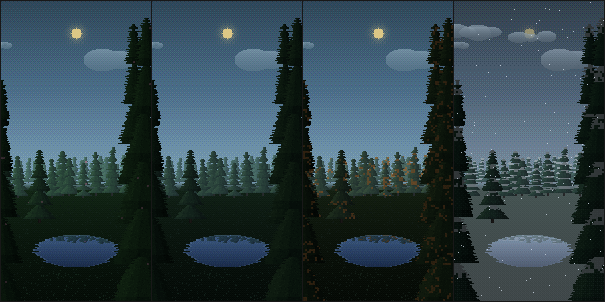
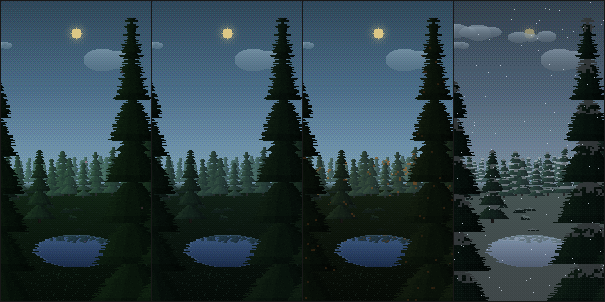
Fix the composition at true device resolution
Reviewing renders at the virtual size a real phone produces (120x267 on a
1080x2400 screen) showed three problems invisible at the larger sizes used
earlier:

- The framing trees drew as thin columns rather than a frame. Widened.
- Season colour speckled across the near-black framing trees. A backlit
  foreground silhouette should show shape, not colour, so the accent
  chance now scales with depth: the mid-ground carries the autumn, the
  framing layer stays dark.
- The clearing floor was an empty band between treeline and water. A scrub
  pass fills it, hugging the treeline and thinning toward the viewer.

Scrub colour blends the mid and near layer palettes rather than resolving
a fresh depth, so the Kotlin mixes two precomputed lookup entries and
lands on exactly the same colour as the preview.

Claude-Session: https://claude.ai/code/session_01DKyk7dHzbPVTzQjGukZqXR

diff --git a/tools/preview/index.html b/tools/preview/index.html
@@ -514,7 +514,9 @@
     const halfW = w / 2;
     const snowAmt = ctx.season.snow;
     const accent = ctx.seasonAccent;
-    const accentChance = ctx.season.accentChance || 0;
+    // Detail falls away toward the viewer: the framing trees read as silhouette, so they
+    // carry far less season colour than the mid-ground does.
+    const accentChance = (ctx.season.accentChance || 0) * (0.30 + 0.70 * depth);
     const depthMul = [0.32 + 0.68 * depth, 0.32 + 0.68 * depth, 0.32 + 0.68 * depth];
 
     const tiers = 3 + Math.floor(rand() * 5);
@@ -638,6 +640,48 @@
   }
 
   /**
+   * Low scrub along the base of the treeline and scattered through the clearing. Without it the
+   * ground reads as an empty band between the trees and the water.
+   */
+  function drawScrub(f, spec, ctx) {
+    const layers = spec.layout.layers;
+    const baseline = ctx.horizonY;
+    const rand = R.rng(spec.seed ^ 0x5C2B);
+    const count = Math.round(f.w / 5);
+    const snowAmt = ctx.season.snow;
+
+    for (let i = 0; i < count; i++) {
+      const x0 = Math.round(rand() * f.w);
+      const spread = rand();
+      // Most clumps hug the treeline; a few stray out into the clearing.
+      const y0 = Math.round(baseline + Math.pow(spread, 2.2) * (f.h - baseline) * 0.42);
+      const rx = 2 + rand() * 5;
+      const ry = 1.5 + rand() * 3;
+      // Blended between the mid and near layer palettes, so the Kotlin port can mix the two
+      // precomputed lookup entries and get an identical colour.
+
+      for (let dy = -Math.round(ry); dy <= 0; dy++) {
+        const t = 1 - Math.abs(dy) / ry;
+        const hw = rx * Math.sqrt(Math.max(0, t));
+        for (let dx = -Math.round(hw); dx <= Math.round(hw); dx++) {
+          const x = x0 + dx, y = y0 + dy;
+          const n = hash2(x, y, spec.seed + 611);
+          if (n > 0.86) continue;                     // ragged edge rather than a smooth blob
+          let shade = dy < -ry * 0.55 ? 4 : 2;
+          if (n < 0.14) shade += 1;
+          let c = mix(
+            S.canopyColour(ctx, shade, layers[1].depth),
+            S.canopyColour(ctx, shade, layers[2].depth),
+            spread,
+          );
+          if (snowAmt > 0 && dy < -ry * 0.5) c = mix(c, mul(ctx.accent.snow, ctx.tint), snowAmt * 0.7);
+          f.px(x, y, c);
+        }
+      }
+    }
+  }
+
+  /**
    * A still pool in the clearing floor. It mirrors what stands *above the far shore* - the
    * treeline and the sky beyond it - compressed hard, because the water is seen at a glancing
    * angle. That is what makes the sky's colour shift read twice on screen.
@@ -676,7 +720,7 @@
     }
   }
 
-  return { drawPine: drawPine, drawLayer: drawLayer, drawGround: drawGround, drawPool: drawPool, hash2: hash2, patchNoise: patchNoise };
+  return { drawPine: drawPine, drawLayer: drawLayer, drawGround: drawGround, drawScrub: drawScrub, drawPool: drawPool, hash2: hash2, patchNoise: patchNoise };
 });
 
 /* ---- weather.js ---- */
@@ -994,6 +1038,7 @@
 
     F.drawLayer(f, spec, ctx, layers[0], offsetFor(layers[0], 0));
     F.drawGround(f, spec, ctx);
+    F.drawScrub(f, spec, ctx);
     F.drawPool(f, spec, ctx);
 
     for (let i = 1; i < layers.length; i++) {
@@ -1119,7 +1164,7 @@
       { "name": "far",   "depth": 0.80, "baseY": 0.606, "height": [0.055, 0.095], "widthRatio": [0.44, 0.62], "spacing": 6,  "sway": 0.20, "parallax": 0.12 },
       { "name": "mid",   "depth": 0.46, "baseY": 0.652, "height": [0.115, 0.180], "widthRatio": [0.40, 0.56], "spacing": 13, "sway": 0.55, "parallax": 0.38 },
       { "name": "near",  "depth": 0.18, "baseY": 0.735, "height": [0.230, 0.330], "widthRatio": [0.34, 0.48], "spacing": 25, "sway": 0.95, "parallax": 0.68, "edgesOnly": 0.30 },
-      { "name": "frame", "depth": 0.00, "baseY": 1.070, "height": [0.780, 1.070], "widthRatio": [0.14, 0.22], "spacing": 29, "sway": 1.50, "parallax": 1.00, "edgesOnly": 0.15 }
+      { "name": "frame", "depth": 0.00, "baseY": 1.070, "height": [0.780, 1.070], "widthRatio": [0.21, 0.31], "spacing": 27, "sway": 1.50, "parallax": 1.00, "edgesOnly": 0.15 }
     ]
   },
 

diff --git a/tools/forest.js b/tools/forest.js
@@ -31,7 +31,9 @@
     const halfW = w / 2;
     const snowAmt = ctx.season.snow;
     const accent = ctx.seasonAccent;
-    const accentChance = ctx.season.accentChance || 0;
+    // Detail falls away toward the viewer: the framing trees read as silhouette, so they
+    // carry far less season colour than the mid-ground does.
+    const accentChance = (ctx.season.accentChance || 0) * (0.30 + 0.70 * depth);
     const depthMul = [0.32 + 0.68 * depth, 0.32 + 0.68 * depth, 0.32 + 0.68 * depth];
 
     const tiers = 3 + Math.floor(rand() * 5);
@@ -155,6 +157,48 @@
   }
 
   /**
+   * Low scrub along the base of the treeline and scattered through the clearing. Without it the
+   * ground reads as an empty band between the trees and the water.
+   */
+  function drawScrub(f, spec, ctx) {
+    const layers = spec.layout.layers;
+    const baseline = ctx.horizonY;
+    const rand = R.rng(spec.seed ^ 0x5C2B);
+    const count = Math.round(f.w / 5);
+    const snowAmt = ctx.season.snow;
+
+    for (let i = 0; i < count; i++) {
+      const x0 = Math.round(rand() * f.w);
+      const spread = rand();
+      // Most clumps hug the treeline; a few stray out into the clearing.
+      const y0 = Math.round(baseline + Math.pow(spread, 2.2) * (f.h - baseline) * 0.42);
+      const rx = 2 + rand() * 5;
+      const ry = 1.5 + rand() * 3;
+      // Blended between the mid and near layer palettes, so the Kotlin port can mix the two
+      // precomputed lookup entries and get an identical colour.
+
+      for (let dy = -Math.round(ry); dy <= 0; dy++) {
+        const t = 1 - Math.abs(dy) / ry;
+        const hw = rx * Math.sqrt(Math.max(0, t));
+        for (let dx = -Math.round(hw); dx <= Math.round(hw); dx++) {
+          const x = x0 + dx, y = y0 + dy;
+          const n = hash2(x, y, spec.seed + 611);
+          if (n > 0.86) continue;                     // ragged edge rather than a smooth blob
+          let shade = dy < -ry * 0.55 ? 4 : 2;
+          if (n < 0.14) shade += 1;
+          let c = mix(
+            S.canopyColour(ctx, shade, layers[1].depth),
+            S.canopyColour(ctx, shade, layers[2].depth),
+            spread,
+          );
+          if (snowAmt > 0 && dy < -ry * 0.5) c = mix(c, mul(ctx.accent.snow, ctx.tint), snowAmt * 0.7);
+          f.px(x, y, c);
+        }
+      }
+    }
+  }
+
+  /**
    * A still pool in the clearing floor. It mirrors what stands *above the far shore* - the
    * treeline and the sky beyond it - compressed hard, because the water is seen at a glancing
    * angle. That is what makes the sky's colour shift read twice on screen.
@@ -193,5 +237,5 @@
     }
   }
 
-  return { drawPine: drawPine, drawLayer: drawLayer, drawGround: drawGround, drawPool: drawPool, hash2: hash2, patchNoise: patchNoise };
+  return { drawPine: drawPine, drawLayer: drawLayer, drawGround: drawGround, drawScrub: drawScrub, drawPool: drawPool, hash2: hash2, patchNoise: patchNoise };
 });

diff --git a/app/src/main/java/com/sylcolabs/weatherpaper/scene/Forest.kt b/app/src/main/java/com/sylcolabs/weatherpaper/scene/Forest.kt
@@ -25,7 +25,10 @@ internal object Forest {
         val canopyPal = ctx.canopy[layerIndex]
         val trunkPal = ctx.trunk[layerIndex]
         val accent = ctx.accent[layerIndex]
-        val accentChance = ctx.season.accentChance
+        // Detail falls away toward the viewer: the framing trees read as silhouette, so they
+        // carry far less season colour than the mid-ground does.
+        val depth = Art.LAYERS[layerIndex].depth
+        val accentChance = ctx.season.accentChance * (0.30f + 0.70f * depth)
         val snowAmt = ctx.season.snow
         val snowCol = ctx.snowTint[layerIndex]
 
@@ -161,6 +164,47 @@ internal object Forest {
                 // Soften the seam where the clearing floor meets the treeline.
                 if (seam < 1f) c = Colour.mix(buf.get(x, y), c, seam)
                 buf.set(x, y, c)
+            }
+        }
+    }
+
+    /**
+     * Low scrub along the base of the treeline and scattered through the clearing. Without it
+     * the ground reads as an empty band between the trees and the water.
+     */
+    fun drawScrub(buf: PixelBuffer, ctx: SceneContext) {
+        val rand = Rng(Art.SEED xor 0x5C2B)
+        val count = (buf.w / 5).coerceAtLeast(1)
+        val snowAmt = ctx.season.snow
+        val baseline = ctx.horizonY
+        val midPal = ctx.canopy[1]
+        val nearPal = ctx.canopy[2]
+
+        for (i in 0 until count) {
+            val x0 = (rand.next() * buf.w).roundToInt()
+            val spread = rand.next()
+            // Most clumps hug the treeline; a few stray out into the clearing.
+            val y0 = (baseline + spread.toDouble().pow(2.2).toFloat() * (buf.h - baseline) * 0.42f).roundToInt()
+            val rx = 2f + rand.next() * 5f
+            val ry = 1.5f + rand.next() * 3f
+
+            for (dy in -ry.roundToInt()..0) {
+                val t = 1f - abs(dy) / ry
+                val hw = rx * sqrt(t.coerceAtLeast(0f))
+                for (dx in -hw.roundToInt()..hw.roundToInt()) {
+                    val x = x0 + dx
+                    val y = y0 + dy
+                    val n = Noise.hash(x, y, Art.SEED + 611)
+                    if (n > 0.86f) continue          // ragged edge rather than a smooth blob
+                    var shade = if (dy < -ry * 0.55f) 4 else 2
+                    if (n < 0.14f) shade++
+                    shade = shade.coerceIn(0, midPal.size - 1)
+                    var c = Colour.mix(midPal[shade], nearPal[shade], spread)
+                    if (snowAmt > 0f && dy < -ry * 0.5f) {
+                        c = Colour.mix(c, ctx.snowColour, snowAmt * 0.7f)
+                    }
+                    buf.set(x, y, c)
+                }
             }
         }
     }

diff --git a/app/src/main/java/com/sylcolabs/weatherpaper/scene/Art.kt b/app/src/main/java/com/sylcolabs/weatherpaper/scene/Art.kt
@@ -61,7 +61,7 @@ internal object Art {
         Layer(0.8f, 0.606f, 0.055f, 0.095f, 0.44f, 0.62f, 6, 0.2f, 0.12f, 0.0f, 6),
         Layer(0.46f, 0.652f, 0.115f, 0.18f, 0.4f, 0.56f, 13, 0.55f, 0.38f, 0.0f, 6),
         Layer(0.18f, 0.735f, 0.23f, 0.33f, 0.34f, 0.48f, 25, 0.95f, 0.68f, 0.3f, 7),
-        Layer(0.0f, 1.07f, 0.78f, 1.07f, 0.14f, 0.22f, 29, 1.5f, 1.0f, 0.15f, 8),
+        Layer(0.0f, 1.07f, 0.78f, 1.07f, 0.21f, 0.31f, 27, 1.5f, 1.0f, 0.15f, 8),
     )
 
     class Precip(val count: Int, val speed: Float, val length: Int, val alpha: Float)

diff --git a/app/src/main/java/com/sylcolabs/weatherpaper/scene/SceneRenderer.kt b/app/src/main/java/com/sylcolabs/weatherpaper/scene/SceneRenderer.kt
@@ -66,6 +66,7 @@ internal class SceneRenderer {
         Sky.drawCelestial(bd, ctx, state.moonPhase)
         Forest.drawLayer(bd, ctx, 0, 0f)     // distant treeline: too far away to sway visibly
         Forest.drawGround(bd, ctx)
+        Forest.drawScrub(bd, ctx)
         Forest.drawPool(bd, ctx)
 
         for (i in SWAY_LAYERS.indices) {

diff --git a/tools/compose.js b/tools/compose.js
@@ -36,6 +36,7 @@
 
     F.drawLayer(f, spec, ctx, layers[0], offsetFor(layers[0], 0));
     F.drawGround(f, spec, ctx);
+    F.drawScrub(f, spec, ctx);
     F.drawPool(f, spec, ctx);
 
     for (let i = 1; i < layers.length; i++) {
